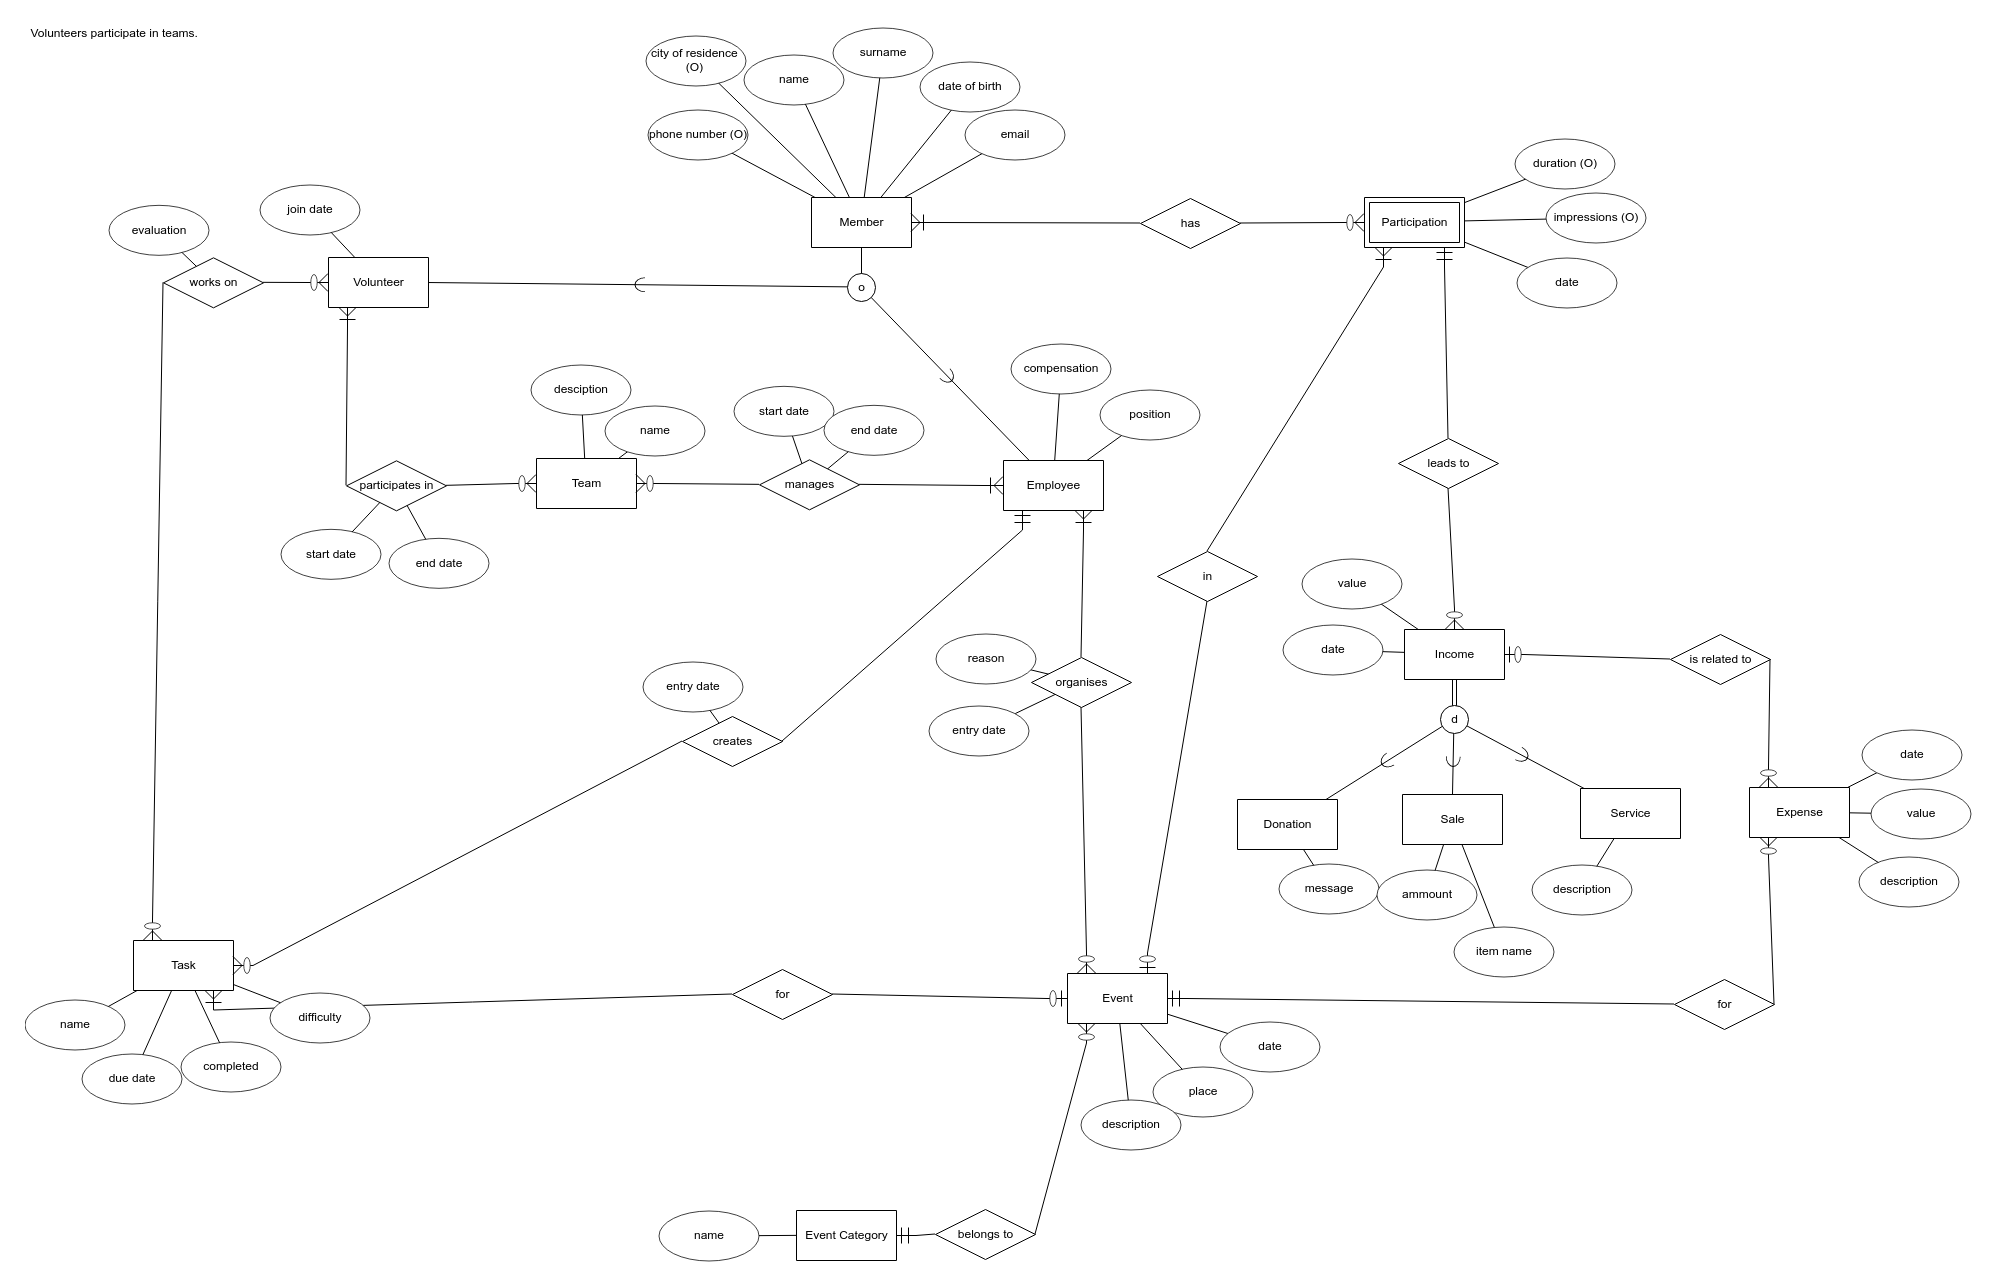
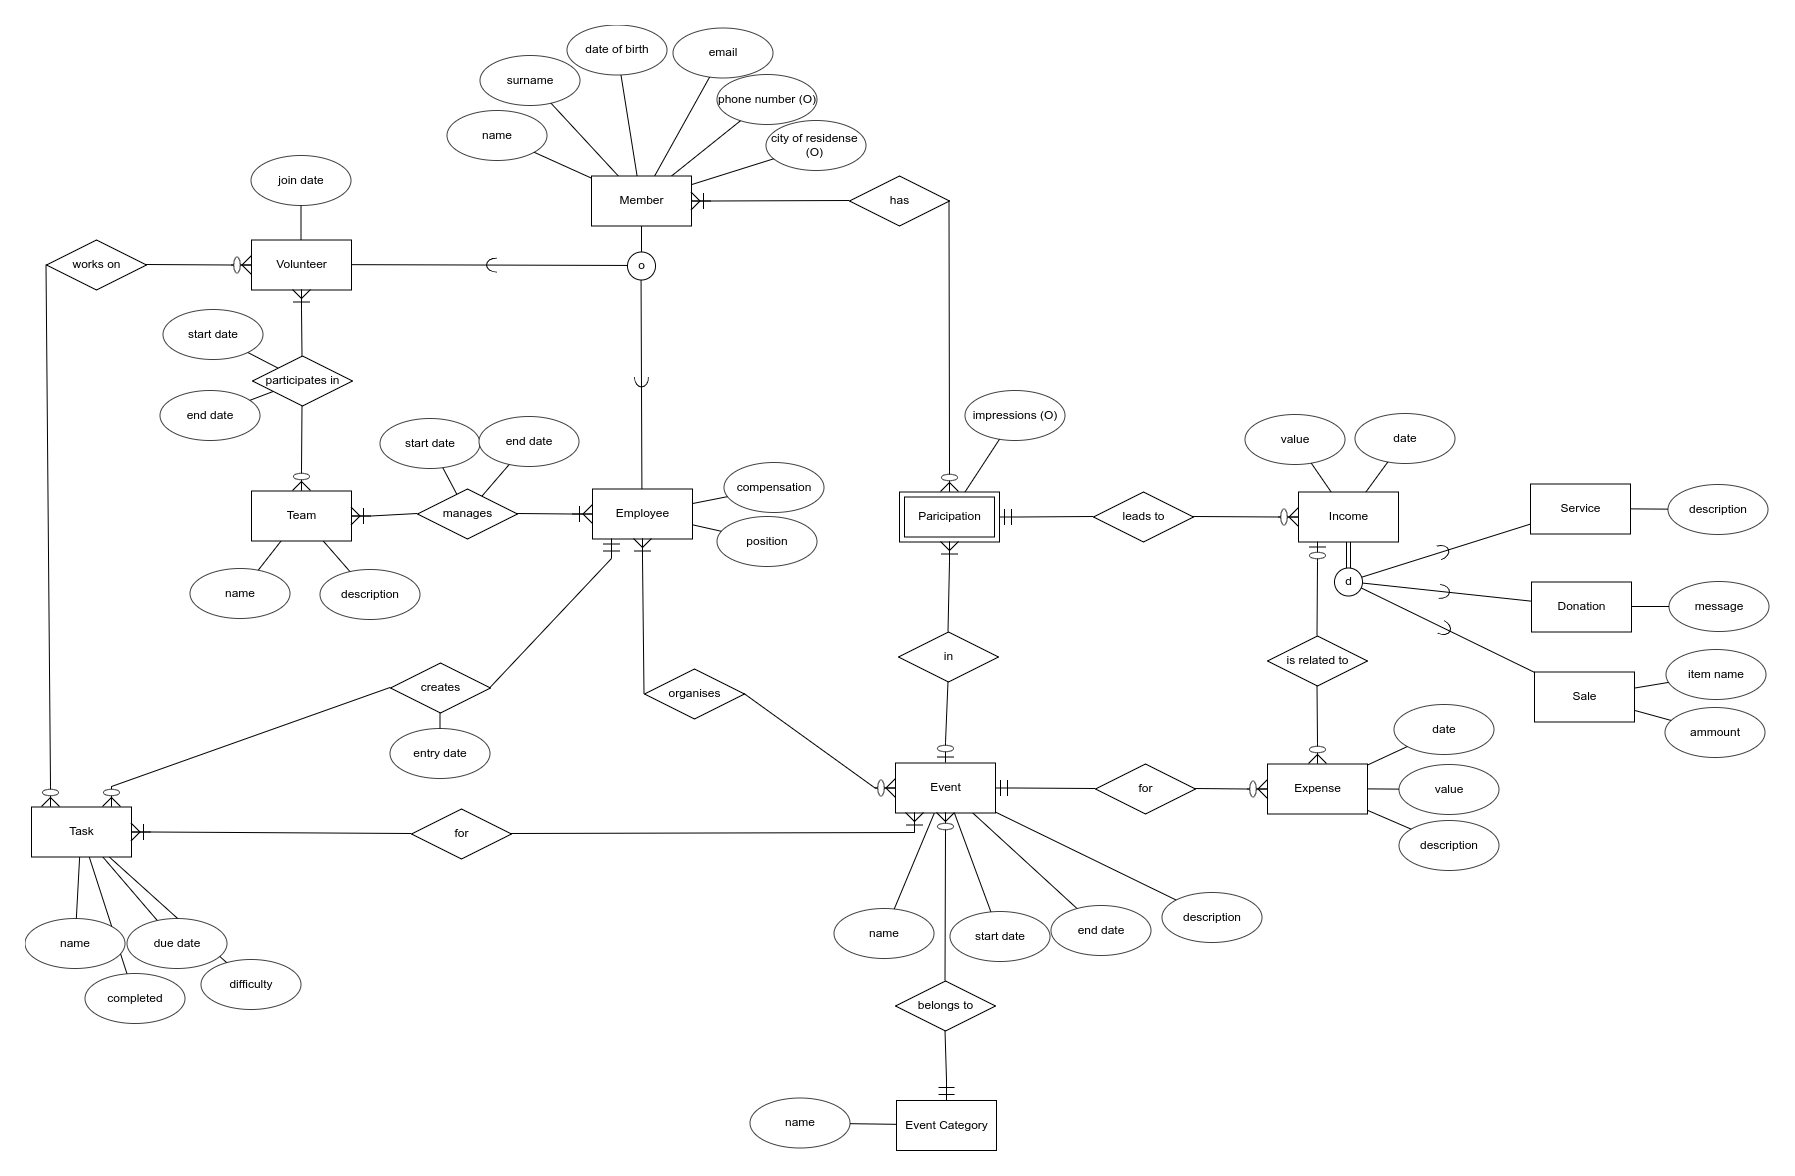
Updates in ERD, Readme
Deleted Schema because it was not totally correct, i think we have the final version of the ERD!

diff --git a/README.md b/README.md
@@ -10,12 +10,15 @@
 - [ ] Color code tasks based on difficulty
 
 ## Ioanna
-- [ ] In event participation, member_id and event_id should be unique.
-- [ ] Fix Composite Foreign keys with raw SQL
+- [X] In event participation, member_id and event_id should be unique.
+- [X] Fix Composite Foreign keys with raw SQL
 - [X] Fix Model's on-delete behaviour
 - [X] Incomes, Expenses Models
 - [X] Move Employee and Management in Volunteer app
 - [X] Volunteer, Member, Event: Create models from schema
+- [ ] Report
+- [ ] Final ERD - Schema
+
 
 ## Resources
 
@@ -35,23 +38,23 @@ https://docs.djangoproject.com/en/3.2/intro/tutorial03/
 
 * https://stackoverflow.com/questions/15819186/sqlite-create-unique-pair-of-columns
 
-Views: 
+Views:
 
 ```sql
 CREATE VIEW team_members(volunteer_id, name, surname, team_name)
-AS 
+AS
 SELECT M.id, M.name, M.surname, VP.team_name_id
 FROM volunteer_participation as VP, member_member as M
 WHERE VP.volunteer_id_id = M.id
 ```
 
-Constraints: 
+Constraints:
 
 ```sql
 ALTER TABLE dbo.yourtablename
   ADD CONSTRAINT uq_yourtablename UNIQUE(column1, column2);
-  
-  
+
+
 create table foo
 (
    from_date date,
